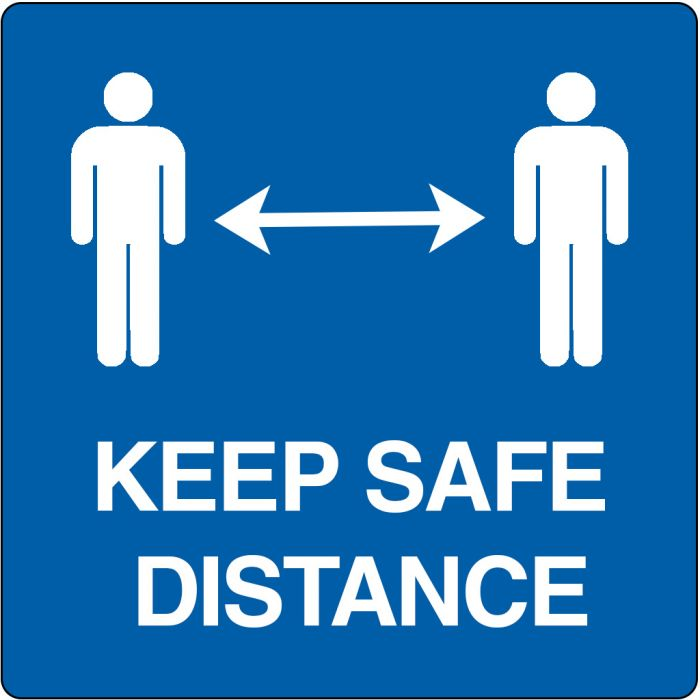
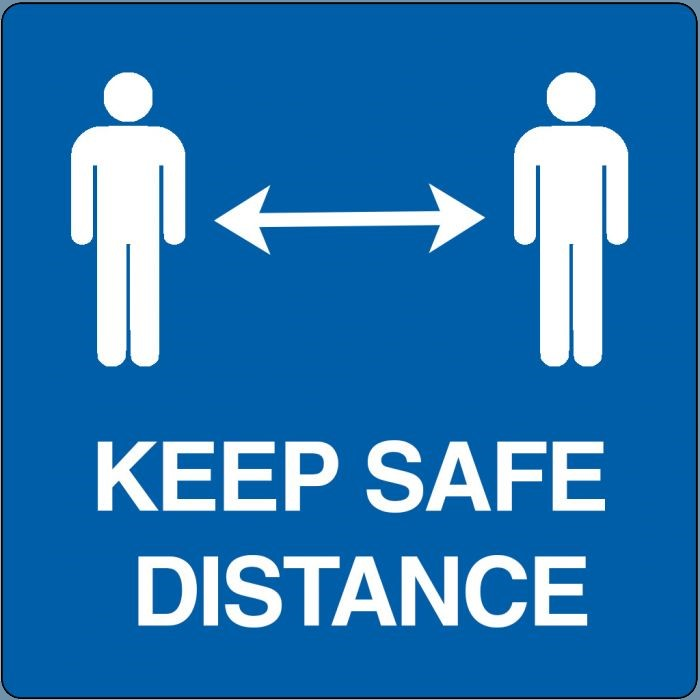
lagt til farger

Changed region(s): [[0.0, 0.0, 1.0, 1.0], [0.0, 0.99, 0.03, 1.0]]

diff --git a/index.html b/index.html
@@ -13,7 +13,7 @@
             <div class="navigasjon">
                 <a href="#introduction">Introduction</a>
                 <a href="#product">The Product</a>
-                <a href="">Contact</a>
+                <a href="#contact">Contact</a>
                 <a href=""></a>
             </div>
         </nav>
@@ -53,10 +53,29 @@
                     et pellentesque sapien dolor vitae risus.</p>
             </div>
         </div>
+
+        <div class="wrapper">
+            <div class="text-container">
+                <h2 class="second-head" id="contact">Contact</h2>
+                <p>Lorem ipsum dolor sit amet, consectetur adipiscing elit. Vestibulum in ultricies augue. Vivamus diam diam,
+                    pellentesque vel egestas vel, consequat et nunc. Fusce id turpis dui. Aliquam dui felis, tristique eu est at, 
+                    congue lacinia sapien. Mauris placerat dignissim faucibus. Sed scelerisque mi in elit euismod sagittis.
+                    Nullam dapibus mauris ornare, sagittis eros congue, volutpat sem. Etiam sollicitudin, erat nec sollicitudin congue,
+                    risus eros tincidunt tellus, non sagittis purus libero non libero. Quisque euismod massa sed elit tempor,
+                    eget vehicula velit consequat. Integer tempor, magna ac aliquam imperdiet, arcu lorem rutrum odio, 
+                    et pellentesque sapien dolor vitae risus.</p>
+            </div>
+            <div class="kult-bilde">
+                <img src="img/keep_distance.jpg" alt="picture ass a reminder to keep safe distance" />
+            </div>
+        </div>
     </main>
 
     <footer>
-           <p>Social media footer</p>
+           <div class="footer-pictures">
+               <a href="https://www.instagram.com/" class="footer-logo" target="blank_"><img src="img/instagram-logo.png" alt="instagram logo"></a>
+               <a href="https://www.facebook.com/" class="footer-logo" target="blank_"><img src="img/facebook-logo.png" alt="facebook logo" /></a>
+           </div>
     </footer>
 </body>
 </html>

diff --git a/style.css b/style.css
@@ -10,6 +10,7 @@ body {
   scroll-behavior: smooth;
   font-size: 18px;
   line-height: 1.5;
+  background-color: #7292A9;
 }
 
 /*navigasjon*/
@@ -39,8 +40,9 @@ img {
 
 .wrapper{
   display: flex;
-  border: solid red;
   justify-content: space-evenly;
+  align-items: center;
+  margin-top: 20px;
 }
 
 .second-head{
@@ -50,8 +52,11 @@ img {
 
 .text-container{
   width: 60%;
-  border: solid brown;
+  border: outset #002E57 4px;
   height: min-content;
+  background-color: #F9FAFA;
+  border-radius: 25px;
+  padding: 15px;
 }
 
 .kult-bilde{
@@ -61,13 +66,25 @@ img {
 
 /*footer*/
 footer{
-  text-align: center;
-  height: min-content;
-  border-top: solid 2px;
-  background-color: powderblue;
+  height: fit-content;
+  overflow: hidden;
+  padding: 5px;
+  background-color: #002E57;
   width: 100%;
   bottom: 0;
   left: 0;
   right: 0;
   margin-top: 2%;
+}
+
+.footer-pictures{
+  display: flex;
+  justify-content: left;
+  
+}
+
+.footer-logo{
+  width: 5%;
+  height: auto;
+  margin: 5px;
 }
